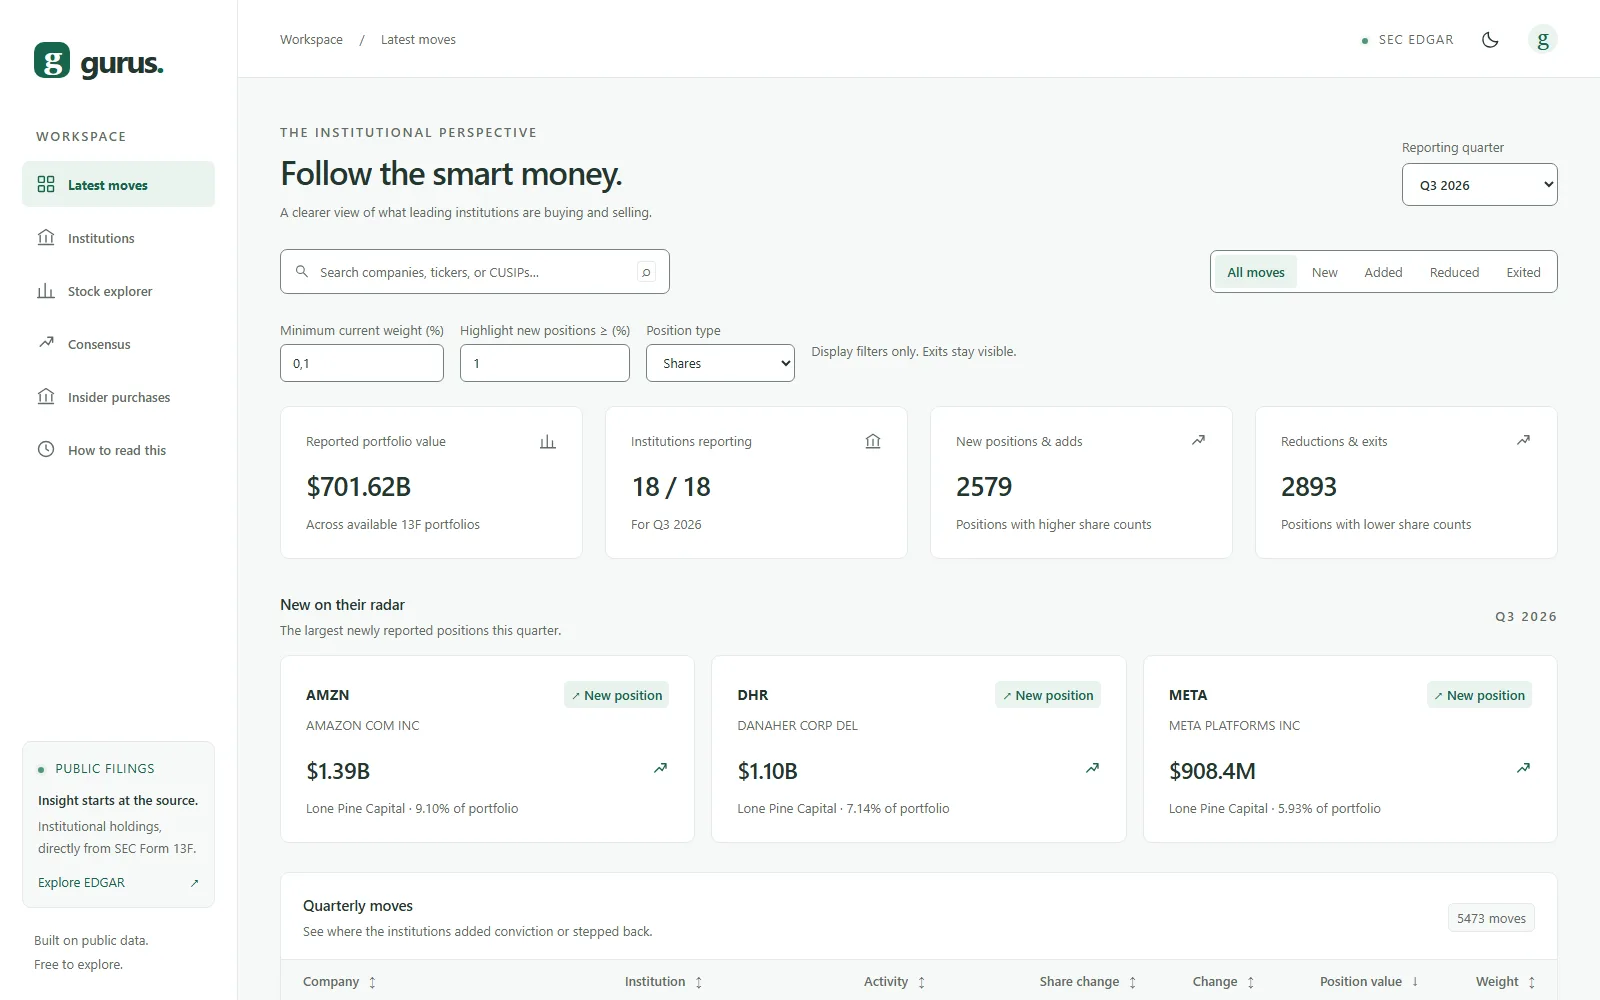
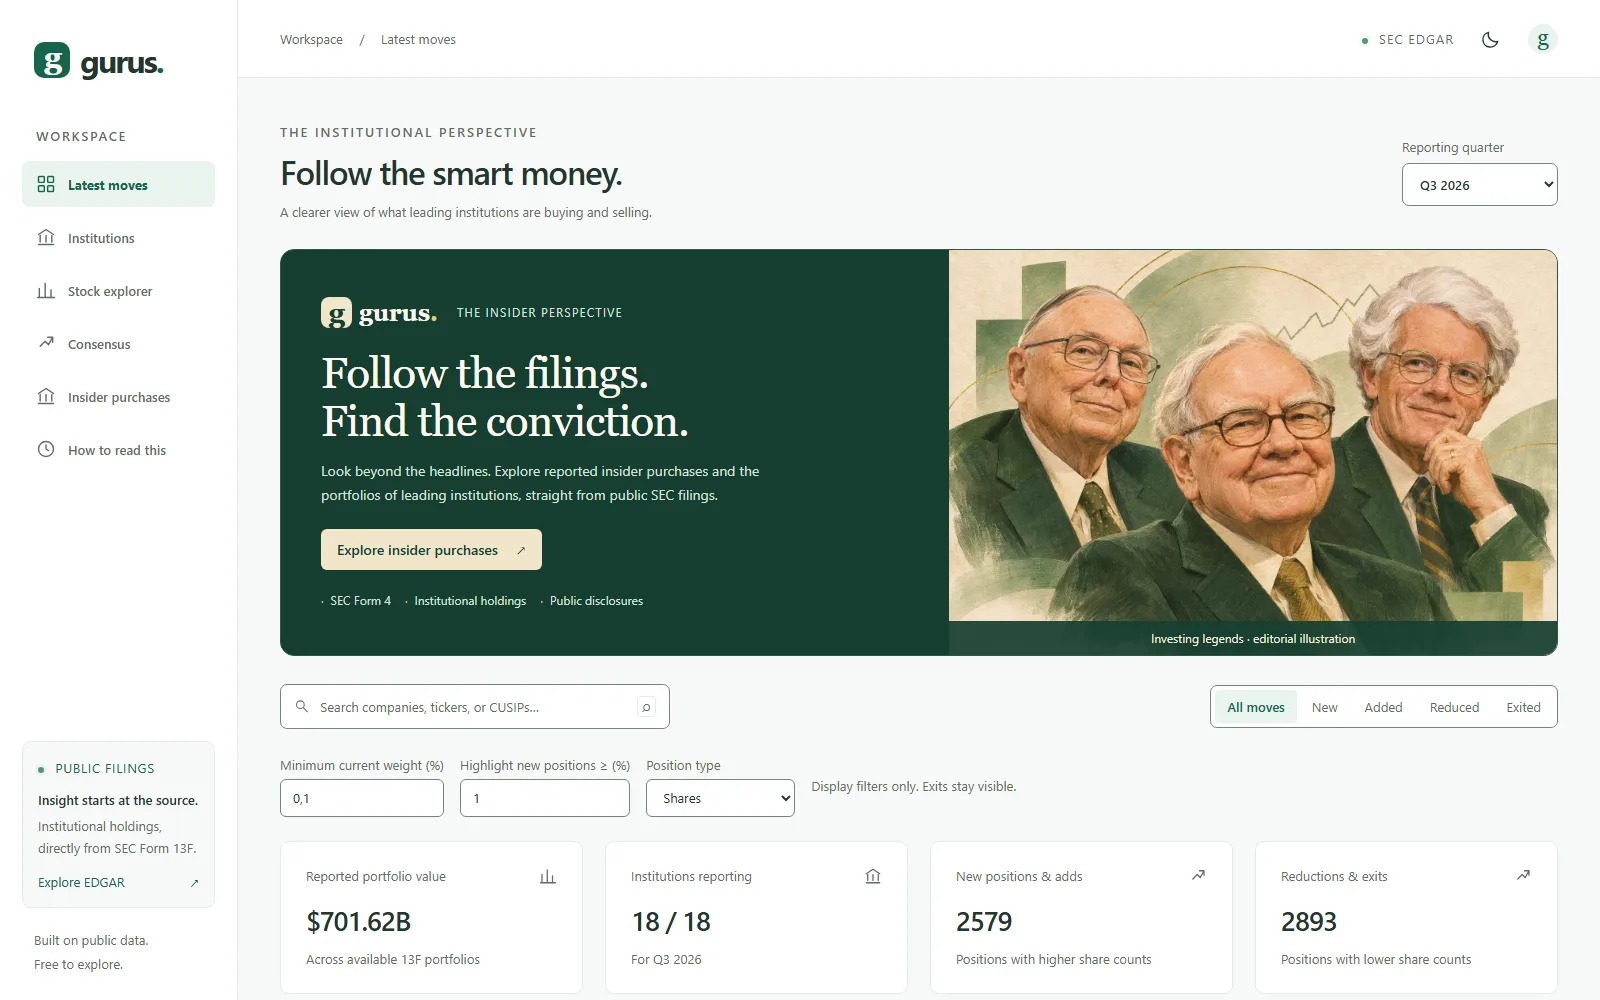
Use landing page previews for Trading Journal and Insiders App
- Trading Journal: real preview cropped to its landing page promo card;
  drop the source link (repository is private)
- Insiders App: new Gurus homepage screenshot with the hero illustration
- SeasonalityApp: remove the resolved "repository public?" note

diff --git a/src/content/projects.ts b/src/content/projects.ts
@@ -331,10 +331,6 @@ export const projects: Project[] = [
       alt: { cs: "Sezónní křivka EUR/USD v aplikaci SeasonalityApp", en: "EUR/USD seasonal curve in SeasonalityApp" },
     },
     services: ["software-development", "mvp-product"],
-    todo: {
-      cs: "Ověřte, že je repozitář na GitHubu veřejný, jinak odkaz na zdrojový kód odstraňte.",
-      en: "Confirm the GitHub repository is public, otherwise remove the source code link.",
-    },
   },
   {
     slug: "insiders-app",
@@ -393,7 +389,7 @@ export const projects: Project[] = [
       width: 1600,
       height: 1000,
       displayUrl: "delightful-plant-0aa1ef610.2.azurestaticapps.net",
-      alt: { cs: "Přehled posledních změn v portfoliích institucí (13F)", en: "Latest institutional portfolio moves (13F)" },
+      alt: { cs: "Úvodní stránka Gurus s ilustrací a přehledem portfolií institucí z formulářů 13F", en: "Gurus homepage with an illustration and an overview of institutional 13F portfolios" },
     },
     services: ["ai-automation", "mvp-product", "software-development"],
     todo: {
@@ -452,12 +448,14 @@ export const projects: Project[] = [
       ],
     },
     liveUrl: "https://tradingjournal-dmdvfwfrgzdfdga3.westeurope-01.azurewebsites.net/TradingJournals",
-    repoUrl: "https://github.com/ondrejmatousek/TradingJournal",
-    services: ["software-development", "ai-automation"],
-    todo: {
-      cs: "Aplikace je za přihlášením, proto je zde zatím ilustrace. Pošlete screenshot z aplikace (public/work/tradingjournal.webp) a ověřte, že je repozitář veřejný.",
-      en: "The app is behind sign-in, so an illustration is shown for now. Send a screenshot from inside the app (public/work/tradingjournal.webp) and confirm the repository is public.",
+    image: {
+      src: "/work/tradingjournal.webp",
+      width: 1280,
+      height: 711,
+      displayUrl: "tradingjournal-dmdvfwfrgzdfdga3.westeurope-01.azurewebsites.net",
+      alt: { cs: "Úvodní stránka Trading Journal s promo náhledem dashboardu", en: "Trading Journal landing page with a dashboard promo preview" },
     },
+    services: ["software-development", "ai-automation"],
   },
   {
     slug: "wild-spirit",

diff --git a/README.md b/README.md
@@ -52,7 +52,6 @@ Append an object to [`src/content/projects.ts`](src/content/projects.ts). It aut
 | Where | What |
 |---|---|
 | `src/content/site.ts` | Confirm full name, add LinkedIn URL and (optionally) public e-mail. Hidden in the UI while `null`. |
-| `projects.ts` → `trading-journal` | App is behind sign-in: add an in-app screenshot as `public/work/tradingjournal.webp`. |
 | `projects.ts` → `insiders-app` | Mapped to the **Gurus** repository (13F + SEC Form 4). Confirm this is the intended project. |
 | `projects.ts` → all | Your role and year; public URLs for TradeReplay / Insiders App if you want them shown. |
 | `tech.ts` | Review the three levels (professional / in projects / workflow). |
